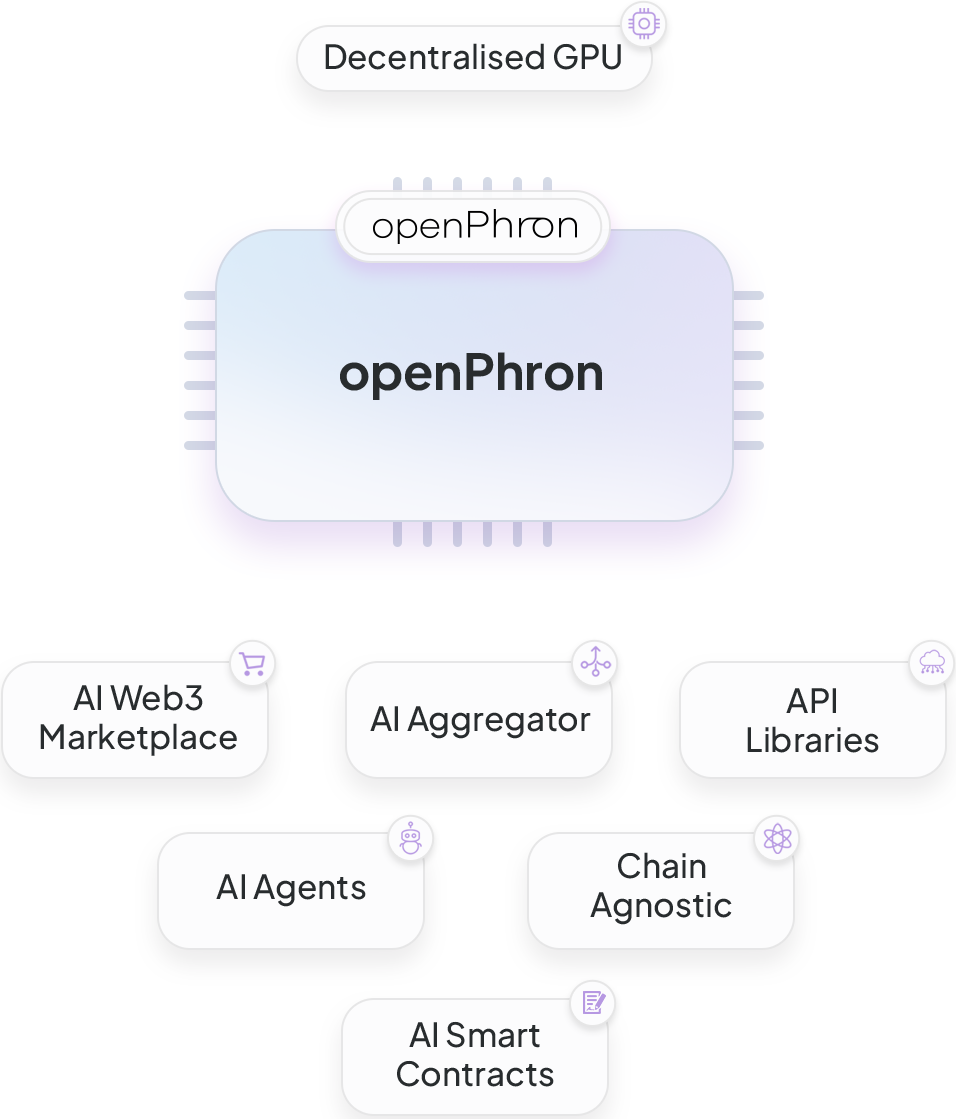
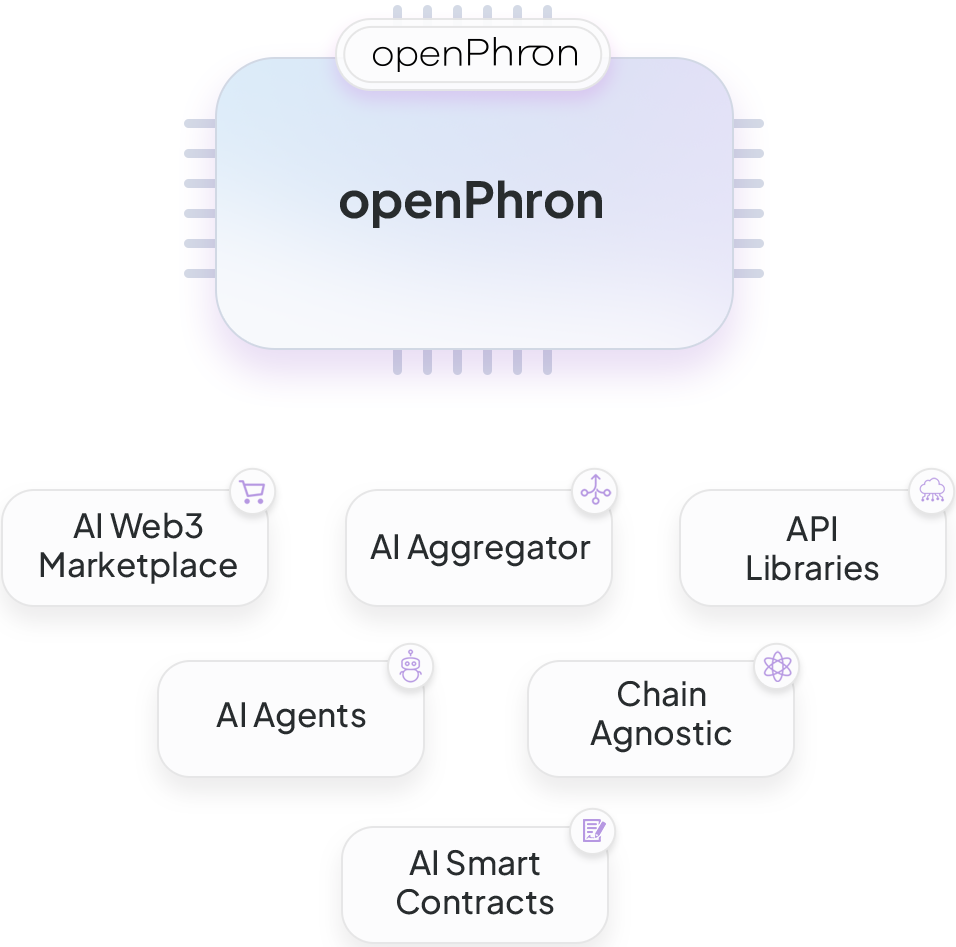
updating animations

diff --git a/src/components/LightHome/PhronAISuite/index.tsx b/src/components/LightHome/PhronAISuite/index.tsx
@@ -26,30 +26,57 @@ export default function PhronAISuite() {
 
       <Fade bottom>
         <VStack
-          position="relative"
-          mx="auto"
-          maxW="420px"
           mb="6"
+          maxW="320px"
+          mx="auto"
+          position="relative"
           display={{ base: "flex", md: "none" }}
         >
+          <Box position="relative">
+            <Image
+              src="/assets/light-theme-home/decentralised-text-img.png"
+              alt="open decentralised graph"
+              width={190}
+              height={100}
+              style={{
+                zIndex: 5,
+                position: "relative",
+              }}
+            />
+            <Box
+              position="absolute"
+              bottom="-60%"
+              right="8%"
+              transform="scaleX(-1)"
+            >
+              <AnimatedZigzag height={80} width={60} />
+            </Box>
+            <Box position="absolute" bottom="-60%" left="8%">
+              <AnimatedZigzag height={80} width={60} />
+            </Box>
+          </Box>
           <Image
             src="/assets/light-theme-home/suite-graph-2.png"
             alt="open phron graph"
-            width={320}
-            height={300}
+            width={420}
+            height={400}
             style={{
               zIndex: 5,
               position: "relative",
             }}
           />
-          <Box position="absolute" bottom="140px" left="72px">
+          <Box
+            position="absolute"
+            bottom={{ base: "35%", lg: "40%" }}
+            right={{ base: "8%", lg: "12%" }}
+            transform="scaleX(-1)"
+          >
             <AnimatedZigzag height={80} width={60} />
           </Box>
           <Box
             position="absolute"
-            bottom="140px"
-            right="72px"
-            transform="scaleX(-1)"
+            bottom={{ base: "35%", lg: "40%" }}
+            left={{ base: "8%", lg: "12%" }}
           >
             <AnimatedZigzag height={80} width={60} />
           </Box>
@@ -70,8 +97,8 @@ export default function PhronAISuite() {
             spacing="2"
             h="40%"
             position="absolute"
-            left="36"
-            bottom="24"
+            left="30%"
+            bottom="20%"
           >
             <AnimatedLines />
             <AnimatedLines />
@@ -81,8 +108,8 @@ export default function PhronAISuite() {
             spacing="2"
             h="40%"
             position="absolute"
-            right="36"
-            bottom="24"
+            right="30%"
+            bottom="20%"
           >
             <AnimatedLines />
             <AnimatedLines />
@@ -94,11 +121,13 @@ export default function PhronAISuite() {
         direction={{ base: "column", md: "row" }}
         alignItems="center"
         justifyContent="center"
-        spacing="6"
+        spacing={{ base: "6", md: "0" }}
         mb="10"
+        maxW='1260px'
+        mx='auto'
       >
         <Fade bottom>
-          <Box position="relative" mt={{ base: "0", md: "14" }}>
+          <Box position="relative" mt={{ base: "0", md: "10" }}>
             <Image
               src="/assets/light-theme-home/suite-graph-1.png"
               alt="open phron graph"
@@ -136,8 +165,44 @@ export default function PhronAISuite() {
           </Box>
         </Fade>
 
+        <Box mt="-100px" ml='10'>
+          <Image
+            src="/assets/light-theme-home/arrow-left.png"
+            alt="arrow left"
+            width={140}
+            height={140}
+            style={{
+              marginLeft: "20px",
+              marginRight: "20px",
+            }}
+          />
+        </Box>
+
         <Fade bottom>
-          <Box position="relative" display={{ base: "none", md: "block" }}>
+          <VStack position="relative" display={{ base: "none", md: "flex" }}>
+            <Box position="relative">
+              <Image
+                src="/assets/light-theme-home/decentralised-text-img.png"
+                alt="open decentralised graph"
+                width={190}
+                height={100}
+                style={{
+                  zIndex: 5,
+                  position: "relative",
+                }}
+              />
+              <Box
+                position="absolute"
+                bottom="-50%"
+                right="24%"
+                transform="scaleX(-1)"
+              >
+                <AnimatedZigzag height={70} width={40} />
+              </Box>
+              <Box position="absolute" bottom="-50%" left="24%">
+                <AnimatedZigzag height={70} width={40} />
+              </Box>
+            </Box>
             <Image
               src="/assets/light-theme-home/suite-graph-2.png"
               alt="open phron graph"
@@ -197,11 +262,24 @@ export default function PhronAISuite() {
               <AnimatedLines />
               <AnimatedLines />
             </Stack>
-          </Box>
+          </VStack>
         </Fade>
 
+        <Box mt="-100px" mr='10'>
+          <Image
+            src="/assets/light-theme-home/arrow-right.png"
+            alt="arrow left"
+            width={140}
+            height={140}
+            style={{
+              marginLeft: "20px",
+              marginRight: "20px",
+            }}
+          />
+        </Box>
+
         <Fade bottom>
-          <Box position="relative" mt={{ base: "0", md: "14" }}>
+          <Box position="relative" mt={{ base: "0", md: "10" }}>
             <Image
               src="/assets/light-theme-home/suite-graph-3.png"
               alt="open phron graph"

diff --git a/src/components/LightHome/PhronAISuite/AnimatedZigzag/index.tsx b/src/components/LightHome/PhronAISuite/AnimatedZigzag/index.tsx
@@ -5,8 +5,8 @@ import { Box, keyframes } from "@chakra-ui/react"
 const moveAlongPath = (width: number, height: number) => keyframes`
   0% { transform: translate(0, 0) rotate(0deg); }
   33.33% { transform: translate(0, ${height * 4/9}px) rotate(0deg); }
-  33.34% { transform: translate(0, ${height * 4/9}px) rotate(80deg); }
-  66.66% { transform: translate(-${width - 4}px, ${height * 5/9}px) rotate(80deg); }
+  33.34% { transform: translate(0, ${height * 4/9}px) rotate(78deg); }
+  66.66% { transform: translate(-${width - 4}px, ${height * 5/9}px) rotate(78deg); }
   66.67% { transform: translate(-${width - 4}px, ${height * 5/9}px) rotate(0deg); }
   100% { transform: translate(-${width - 4}px, ${height}px) rotate(0deg); }
 `
